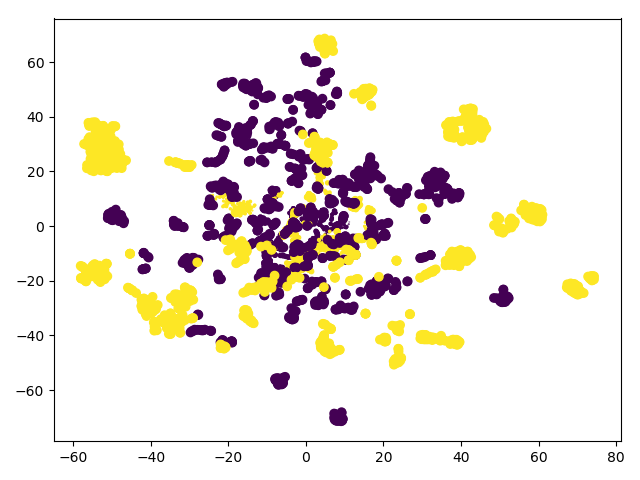
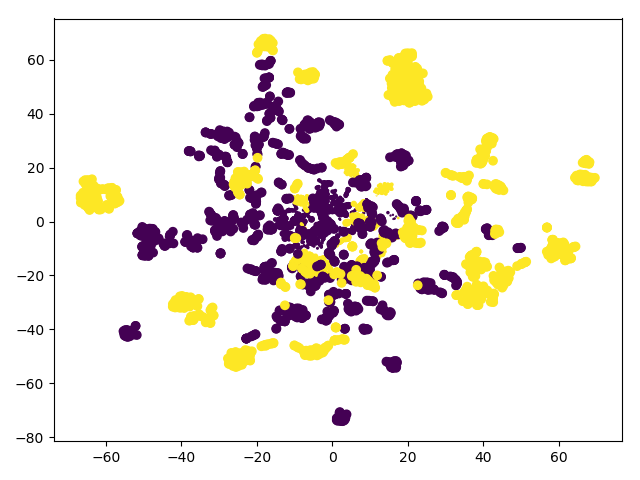
added 2d, 3d tsne imgs

diff --git a/mf_gmm/code/tsne_analysis.py b/mf_gmm/code/tsne_analysis.py
@@ -1,6 +1,7 @@
 import matplotlib
 matplotlib.use('Agg')
 import matplotlib.pyplot as plt
+from mpl_toolkits.mplot3d import Axes3D
 
 from sklearn.manifold import TSNE
 import numpy as np
@@ -200,6 +201,9 @@ else:
 	plt.scatter(feat_embedded[:, 0], feat_embedded[:, 1],  feat_embedded[:, 2],c = labels_train);
 	plt.tight_layout();
 	plt.savefig('../vis/tsne-cnn-spec-3d.png');
+	#plt.set_xlabel('X Label')
+	#plt.set_ylabel('Y Label')
+	#plt.set_zlabel('Z Label')
 
 
 
@@ -215,6 +219,8 @@ else:
 	plt.scatter(feat_embedded[:, 0], feat_embedded[:, 1], c = labels_train);
 	plt.tight_layout();
 	plt.savefig('../vis/tsne-cnn-spec-02d.png');
+	#plt.set_xlabel('X Label')
+	#plt.set_ylabel('Y Label')
 
 
 
